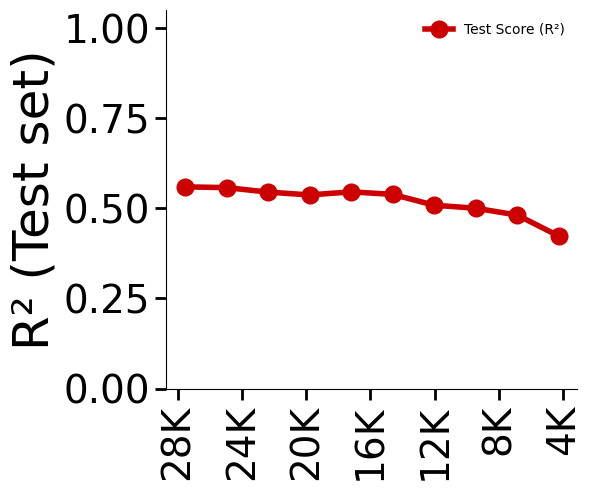
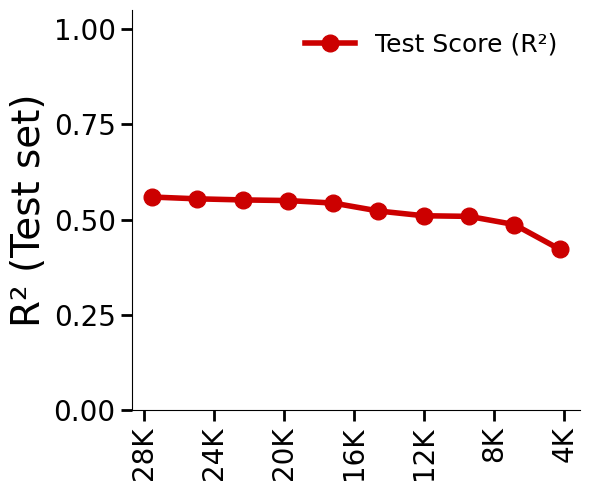
Font decreased for dataset reduction plot

diff --git a/rf_dl/dataset_size_reduction_exp.py b/rf_dl/dataset_size_reduction_exp.py
@@ -93,7 +93,7 @@ def plot_experiment_results(results, output_path=None, title="", is_networked=Tr
         plt.title(title)
         
     # Updated Y-label to match reference
-    plt.ylabel("R² (Test set)", fontsize=36)
+    plt.ylabel("R² (Test set)", fontsize=28)
     
     # 3. Explicit Y-axis intervals to match reference exactly
     plt.yticks([0, 0.25, 0.5, 0.75, 1.0])
@@ -114,13 +114,13 @@ def plot_experiment_results(results, output_path=None, title="", is_networked=Tr
     # 5. Rotate X labels 90 degrees and make tick marks thicker
     plt.xticks(rotation=90)
 
-    ax.tick_params(axis='y', labelsize=28, width=2, length=8) 
-    ax.tick_params(axis='x', labelsize=28, width=2, length=8) 
+    ax.tick_params(axis='y', labelsize=20, width=2, length=8) 
+    ax.tick_params(axis='x', labelsize=20, width=2, length=8) 
     
     plt.ylim(0, 1.05) 
     
     # Removed the box around the legend to keep it clean
-    plt.legend(frameon=False) 
+    plt.legend(frameon=False, fontsize=18) 
     plt.grid(False)
     
     plt.tight_layout()
